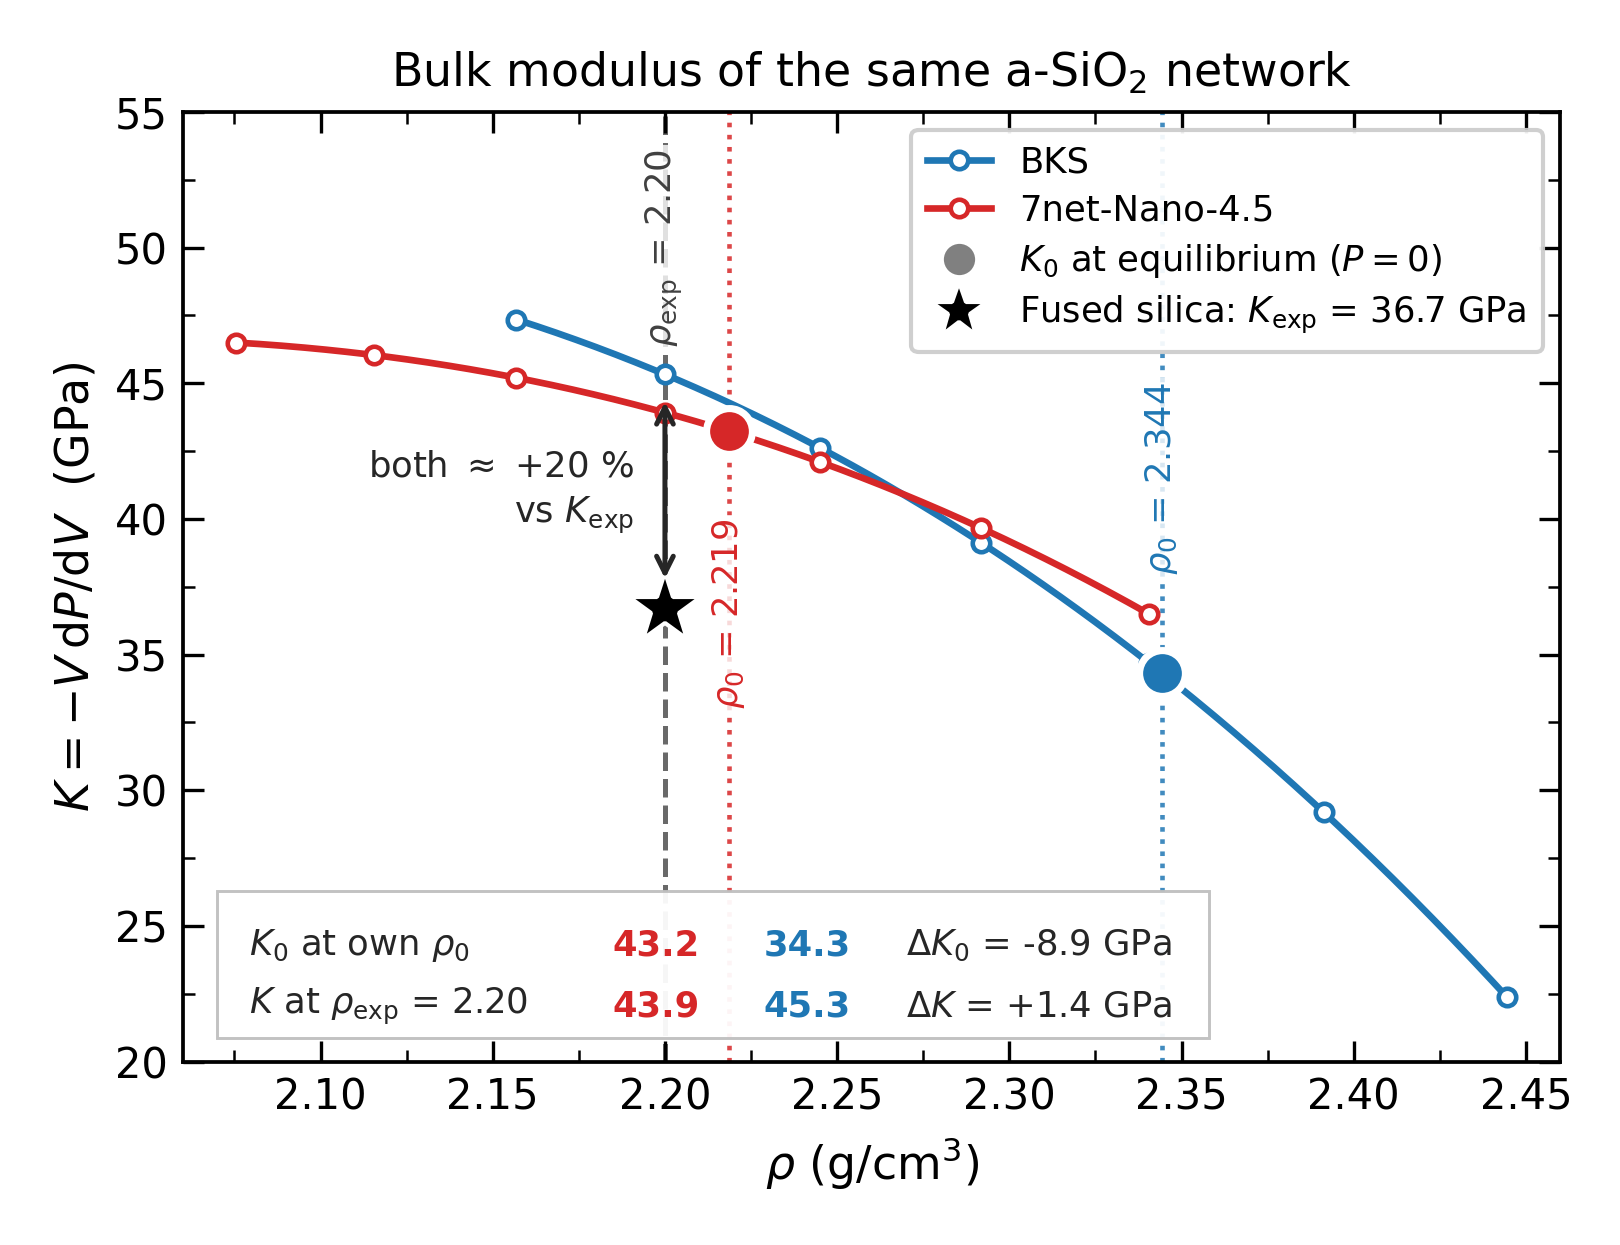
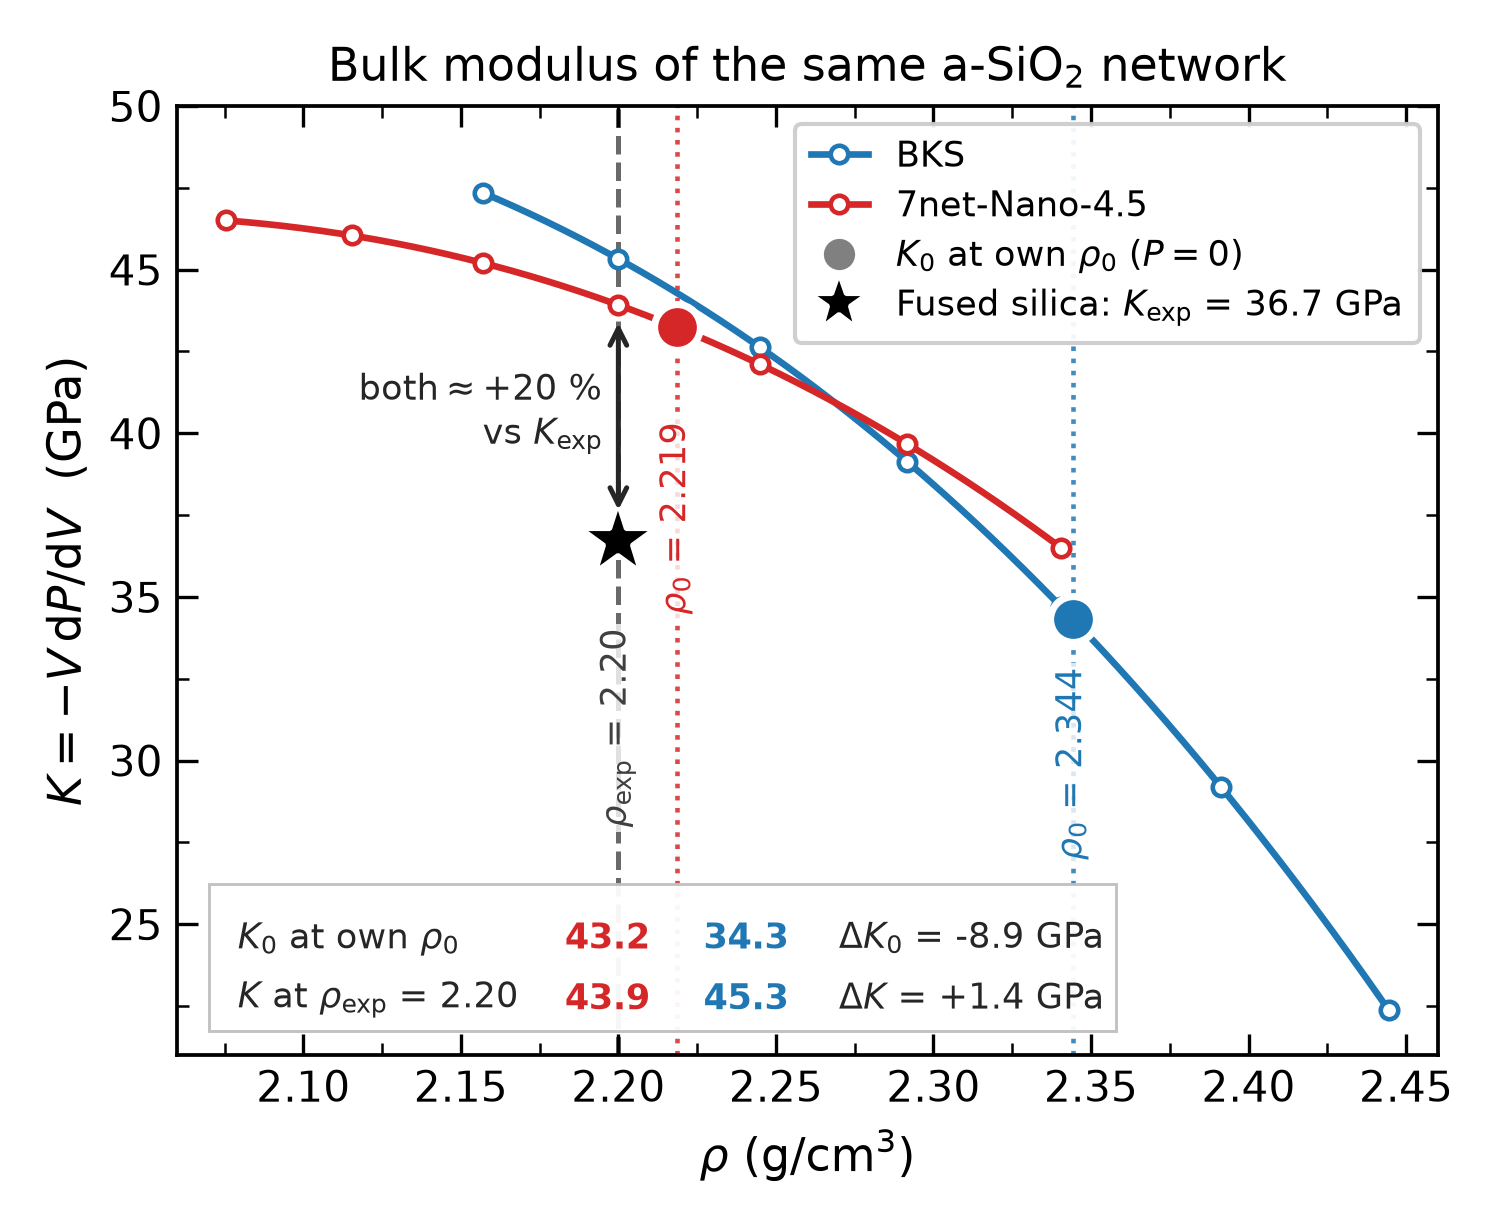
Consistency audit after the tail-on switch: found a v1 leak into RESULTS
Swept the repo for anything left stale by the tail-off -> tail-on change and by
the earlier rho=2.607 -> 2.20 restart. Five real problems.

1. fig_density.py's docstring still said "reported values are tail OFF" while
   the code reads ev_bks_scan_tail.txt. The file contradicted itself. Rewrote
   the docstring to state the tail-on grounds and to record that the original
   tail-off justification was circular.

2. RESULTS.md "lessons" section still claimed BKS is 5x more accurate on K0.
   With the tail on it is 2.7x. Fixed.

3. THE REAL FIND: RESULTS.md section 3(b) -- "the density drop is entirely
   explained by bond length, predicted -4.28 % vs measured -4.31 %, agreeing to
   0.03 %p" -- was carrying numbers from the DISCARDED rho=2.607 work
   (s2_relax/NOTE.md S2-3). There the comparison was Si-O 1.6123 -> 1.6360 with
   density 2.6071 -> 2.4948, i.e. the same structure relaxed by 7net at two
   volumes at 0 K. That is a clean apples-to-apples test and the claim was
   sound in its own context.

   The current section 3(b) is a completely different comparison: 300 K MD g(r)
   peak positions against 0 K equilibrium densities of two different potentials.
   The v1 numbers do not transfer. Recomputed honestly:

       prediction from mean Si-O (1.6147 -> 1.6369)   -4.01 %
       prediction from peak Si-O (1.605  -> 1.635 )   -5.40 %
       measured (2.3442 -> 2.2185)                    -5.36 %

   So the prediction swings 1.4 %p depending on which equally arbitrary
[…]

Changed region(s): [[0.0307, 0.0309, 0.9813, 0.9577], [0.7973, 0.6179, 0.8587, 0.7106], [0.1533, 0.1545, 0.2147, 0.1854]]

diff --git a/04_analysis/src/sq_analyze.py b/04_analysis/src/sq_analyze.py
@@ -1,0 +1,138 @@
+#!/usr/bin/env python
+"""dump 궤적 → 부분 g_ab(r) (r ≤ 15 Å) → 중성자 가중 S(q). **원격에서 실행.**
+
+왜 별도 스크립트인가
+    traj_analyze.py 는 결합길이·결합각용이라 RMAX = 8 Å 이다. 중거리 구조 지표인
+    FSDP(~1.5 Å⁻¹)를 보려면 r 을 더 멀리 봐야 하고(2π/1.5 ≈ 4 Å 주기의 상관을
+    여러 주기 담아야 함), 정규화·가중도 다르다. 기존 출력을 건드리지 않으려고 분리했다.
+
+사용:
+    cd ~/projects/lammps_tutorial/SiO2-MLIP/02_run/s3_md
+    python ../../04_analysis/src/sq_analyze.py traj_7net220.lammpstrj 7net220
+    cd ../s0_requench
+    python ../../04_analysis/src/sq_analyze.py traj_bks220.lammpstrj bks220
+
+출력 (작은 텍스트 파일이라 sync 해도 됨):
+    <접두사>_gr15.dat   r, g_SiO, g_OO, g_SiSi, g_total(중성자 가중)
+    <접두사>_sq.dat     q, S_N(q)
+
+⚠ 한계 두 가지 — 그림·문서에 반드시 같이 적을 것
+  1. **r 절단이 15 Å 이다.** 박스가 30.4 Å 이라 minimum image 로 갈 수 있는 최대가
+     절반인 15.2 Å 이다. FT 의 q 해상도는 Δq ≈ 2π/R_max ≈ 0.42 Å⁻¹ 이므로
+     **FSDP 의 위치는 읽을 수 있어도 폭·높이는 뭉개진다.** 위치만 인용할 것.
+  2. 절단 리플을 줄이려고 Lorch 창을 곱한다. 이것도 피크를 넓히므로 같은 이유로
+     진폭 비교는 하지 말 것.
+
+⚠ 중성자 산란길이는 문헌값이다 (Sears, Neutron News 3, 26 (1992) 로 알려진 표).
+  출처 조사 때 확인할 것. 값이 조금 달라져도 **FSDP 위치는 거의 안 움직인다**
+  (가중치는 세 부분함수의 배합비만 바꾸므로).
+"""
+import sys
+import numpy as np
+
+TYPE_O, TYPE_SI = 1, 2
+B_O, B_SI = 5.803, 4.1491        # fm, 중성자 결맞음 산란길이
+RMAX, DR = 15.0, 0.02
+QMIN, QMAX, DQ = 0.5, 12.0, 0.02
+
+
+def read_dump(path):
+    """xs ys zs (스케일 좌표) dump 를 프레임 단위로. traj_analyze.py 와 동일 규약."""
+    with open(path) as f:
+        while True:
+            line = f.readline()
+            if not line:
+                return
+            if not line.startswith("ITEM: TIMESTEP"):
+                continue
+            f.readline(); f.readline()
+            n = int(f.readline())
+            f.readline()
+            L = np.empty(3)
+            for k in range(3):
+                lo, hi = map(float, f.readline().split()[:2])
+                L[k] = hi - lo
+            cols = f.readline().split()[2:]
+            ix = {c: i for i, c in enumerate(cols)}
+            arr = np.array([f.readline().split() for _ in range(n)], dtype=float)
+            typ = arr[:, ix["type"]].astype(int)
+            s = arr[:, [ix["xs"], ix["ys"], ix["zs"]]]
+            yield typ, s * L, L
+
+
+def main(path, prefix):
+    nb = int(RMAX / DR)
+    edges = np.linspace(0.0, RMAX, nb + 1)
+    r = 0.5 * (edges[:-1] + edges[1:])
+    h = {"SiO": np.zeros(nb), "OO": np.zeros(nb), "SiSi": np.zeros(nb)}
+    nframe, Vsum = 0, 0.0
+    nO = nSi = 0
+
+    for typ, pos, L in read_dump(path):
+        if RMAX > 0.5 * L.min() + 1e-9:
+            sys.exit(f"RMAX {RMAX} > half-box {0.5*L.min():.3f} — minimum image 불가")
+        nframe += 1
+        Vsum += float(np.prod(L))
+        O = np.where(typ == TYPE_O)[0]
+        Si = np.where(typ == TYPE_SI)[0]
+        nO, nSi = len(O), len(Si)
+
+        for i in Si:                                   # Si 중심: Si-O, Si-Si
+            d = pos - pos[i]
+            d -= L * np.round(d / L)
+            rr = np.linalg.norm(d, axis=1)
+            h["SiO"] += np.histogram(rr[O], bins=edges)[0]
+            s = rr[Si]
+            h["SiSi"] += np.histogram(s[s > 1e-8], bins=edges)[0]
+        for i in O:                                    # O 중심: O-O
+            d = pos - pos[i]
+            d -= L * np.round(d / L)
+            rr = np.linalg.norm(d[O], axis=1)
+            h["OO"] += np.histogram(rr[rr > 1e-8], bins=edges)[0]
+
+    V = Vsum / nframe
+    N = nO + nSi
+    rho0 = N / V                                        # 전체 수밀도
+    shell = 4.0 * np.pi * r**2 * DR
+
+    # 부분 g_ab: 중심원자 수 × 상대종 수밀도 × 껍질부피 로 나눈다 → 큰 r 에서 1 로 감.
+    #   Si-O 는 Si 중심으로만 셌으므로 중심 수가 nSi. 동종쌍은 순서쌍으로 셌다.
+    g = {"SiO":  h["SiO"] / (nframe * nSi * (nO / V) * shell),
+         "OO":   h["OO"] / (nframe * nO * (nO / V) * shell),
+         "SiSi": h["SiSi"] / (nframe * nSi * (nSi / V) * shell)}
+
+    # ---- Faber-Ziman 중성자 가중 ----
+    cO, cSi = nO / N, nSi / N
+    bbar = cO * B_O + cSi * B_SI
+    w = {"OO":   cO * cO * B_O * B_O / bbar**2,
+         "SiSi": cSi * cSi * B_SI * B_SI / bbar**2,
+         "SiO":  2.0 * cO * cSi * B_O * B_SI / bbar**2}   # 2× : ab 와 ba
+    assert abs(sum(w.values()) - 1.0) < 1e-9
+
+    g_tot = sum(w[k] * g[k] for k in g)                  # 큰 r 에서 1 로 감
+
+    # ---- S(q): Lorch 창으로 절단 리플 억제 ----
+    lorch = np.sinc(r / RMAX)                            # np.sinc(x) = sin(pi x)/(pi x)
+    q = np.arange(QMIN, QMAX + 1e-9, DQ)
+    integ = r * (g_tot - 1.0) * lorch * DR
+    Sq = 1.0 + (4.0 * np.pi * rho0 / q) * (np.sin(np.outer(q, r)) @ integ)
+
+    np.savetxt(f"{prefix}_gr15.dat",
+               np.column_stack([r, g["SiO"], g["OO"], g["SiSi"], g_tot]),
+               header=f"frames {nframe}  V {V:.3f}  rho0 {rho0:.6f}  "
+                      f"nO {nO} nSi {nSi}\nr  g_SiO  g_OO  g_SiSi  g_total(neutron)")
+    np.savetxt(f"{prefix}_sq.dat", np.column_stack([q, Sq]),
+               header=f"frames {nframe}  rho0 {rho0:.6f}  RMAX {RMAX}  Lorch window\nq(1/A)  S_N(q)")
+
+    m = (q > 1.0) & (q < 2.2)
+    i = np.argmax(Sq[m])
+    print(f"{prefix}: {nframe} frames, V {V:.1f} A^3, rho0 {rho0:.5f} /A^3")
+    print(f"  g_total 꼬리 (r 13-15 A) 평균 {g_tot[r > 13].mean():.4f}  (1 이어야 정상)")
+    print(f"  FSDP: q = {q[m][i]:.3f} A^-1,  S = {Sq[m][i]:.3f}   (실험 ~1.52)")
+    print(f"  -> {prefix}_gr15.dat, {prefix}_sq.dat")
+
+
+if __name__ == "__main__":
+    if len(sys.argv) != 3:
+        sys.exit(__doc__)
+    main(sys.argv[1], sys.argv[2])

diff --git a/04_analysis/src/fig_bulkmod.py b/04_analysis/src/fig_bulkmod.py
@@ -77,7 +77,7 @@ for lab, col, fn in SET:
 b, s = fit["BKS"], fit["7net-Nano-4.5"]
 kb, ks = K_of(V_of(RHO_EXP), b["pf"]), K_of(V_of(RHO_EXP), s["pf"])
 
-fig, ax = plt.subplots(figsize=(5.4, 4.15))
+fig, ax = plt.subplots(figsize=(5.0, 4.1))
 
 # ---- 세로 기준선 3개: 실험 밀도 + 각 방법의 평형밀도 ----
 ax.axvline(RHO_EXP, ls="--", lw=1.2, c="0.35", alpha=0.9, zorder=1)
@@ -102,11 +102,11 @@ ax.plot(RHO_EXP, K_EXP, "*", ms=18, mfc="k", mec="w", mew=1.0, zorder=7)
 # ---- 세로선 위의 rho0 라벨 (선 색과 맞추고 흰 배경 alpha 0.8) ----
 #   BKS 는 평형 마커(34.3)와 범례 상자(y~47) 사이 빈 띠로 올린다. 마커 아래로는
 #   회전 라벨 높이(약 6.7 단위)가 안 들어가 마커를 가린다.
-for v, yy in ((s, 36.5), (b, 41.5)):
+for v, yy in ((s, 37.4), (b, 29.9)):
     ax.text(v["rho0"], yy, rf"$\rho_0$ = {v['rho0']:.3f}",
             fontsize=8.5, c=v["col"], ha="center", va="center", rotation=90,
             bbox=dict(fc="white", ec="none", alpha=0.8, pad=1.0), zorder=8)
-ax.text(RHO_EXP, 50.0, rf"$\rho_{{\rm exp}}$ = {RHO_EXP:.2f}",
+ax.text(RHO_EXP, 31.0, rf"$\rho_{{\rm exp}}$ = {RHO_EXP:.2f}",
         fontsize=8.5, c="0.25", ha="center", va="center", rotation=90,
         bbox=dict(fc="white", ec="none", alpha=0.8, pad=1.0), zorder=8)
 
@@ -117,10 +117,10 @@ ax.text(RHO_EXP, 50.0, rf"$\rho_{{\rm exp}}$ = {RHO_EXP:.2f}",
 # ---- 실험값과의 간격: rho_exp 에서만 재는 게 정당한 비교다 ----
 #   두 곡선이 1.4 GPa 밖에 안 떨어져 있어 화살표를 색깔별로 두 개 그리면 겹쳐서 지저분하다.
 #   "실험과의 간격"은 하나의 개념이므로 **검정 화살표 하나**로 그리고 값은 옆에 적는다.
-ax.annotate("", xy=(RHO_EXP, K_EXP + 0.8), xytext=(RHO_EXP, (kb + ks) / 2),
+ax.annotate("", xy=(RHO_EXP, K_EXP + 0.7), xytext=(RHO_EXP, (kb + ks) / 2 - 1),
             arrowprops=dict(arrowstyle="<->", lw=1.2, color="0.15"), zorder=7)
-ax.text(RHO_EXP - 0.009, (K_EXP + (kb + ks) / 2) / 2 + 0.3,
-        "both $\\approx$ +20 %\nvs $K_{\\rm exp}$",
+ax.text(RHO_EXP - 0.005, (K_EXP + (kb + ks) / 2) / 2 + 0.0,
+        "both$\\approx$+20 %\nvs $K_{\\rm exp}$",
         fontsize=8.5, ha="right", va="center", multialignment="right",
         color="0.15", linespacing=1.4,
         bbox=dict(fc="white", ec="none", alpha=0.8, pad=1.5), zorder=8)
@@ -149,7 +149,7 @@ ax.set_xlabel(r"$\rho$ (g/cm$^3$)")
 ax.set_ylabel(r"$K = -V\,\mathrm{d}P/\mathrm{d}V$  (GPa)")
 ax.set_xlim(2.06, 2.46)
 # ymin 20: BKS 최우측 스캔점(rho 2.4445, K 22.4)까지 보이게. ymax 55: rho0 라벨 자리만 확보.
-ax.set_ylim(20, 55)
+ax.set_ylim(21, 50)
 ax.xaxis.set_minor_locator(AutoMinorLocator(2))
 ax.yaxis.set_minor_locator(AutoMinorLocator(2))
 
@@ -160,11 +160,13 @@ h = [plt.Line2D([], [], ls="-", lw=1.6, c=v["col"],
      for v in fit.values()]
 l = list(fit.keys())
 h.append(plt.Line2D([], [], ls="", marker="o", ms=9, mfc="0.5", mec="w", mew=1.5))
-l.append(r"$K_0$ at equilibrium ($P=0$)")
+# 범례와 아래 상자의 표현을 **일치**시킨다. "equilibrium" / "own rho_0" 로 갈리면
+# 읽는 사람이 둘을 매칭하는 단계를 한 번 더 거친다.
+l.append(r"$K_0$ at own $\rho_0$ ($P=0$)")
 h.append(plt.Line2D([], [], ls="", marker="*", ms=14, mfc="k", mec="w"))
 l.append(rf"Fused silica: $K_{{\rm exp}}$ = {K_EXP} GPa")
 ax.legend(h, l, loc="upper right", framealpha=0.93, fontsize=8.5,
-          handlelength=1.8, borderpad=0.45, labelspacing=0.4)
+          handlelength=1.6, borderpad=0.45, labelspacing=0.4)
 
 ax.set_title("Bulk modulus of the same a-SiO$_2$ network", fontsize=11)
 fig.tight_layout()
